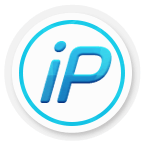
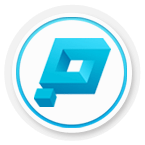
修改logo图标

Changed region(s): [[0.1103, 0.1103, 0.8828, 0.8828]]

diff --git a/src/Base/Mark.ts b/src/Base/Mark.ts
@@ -50,6 +50,7 @@ export default class Mark {
       let gamePage = Utils.getUrlParam('debugger') || window['debugger'] ? RG.jssdk.config.page.game.test : RG.jssdk.config.page.game.formal
       this.gameOrigin = gamePage.match(reg)[0]
       let loginOrigin = loginPage.match(reg)[0]
+      console.log('this origin', location.origin)
       console.log('mark origin', [loginOrigin, this.gameOrigin])
       this.gtag('config', 'GA_TRACKING_ID', {
         'linker': {

diff --git a/src/Main.ts b/src/Main.ts
@@ -17,7 +17,6 @@ export default class Main {
   }
 
   polyfilled() {
-    console.log('polyfilled')
     this.init().then(() => {
       location.origin === Mark.instance.gameOrigin && RG.Mark(DOT.SDK_LOADED);
       (RG.jssdk as any).init()
